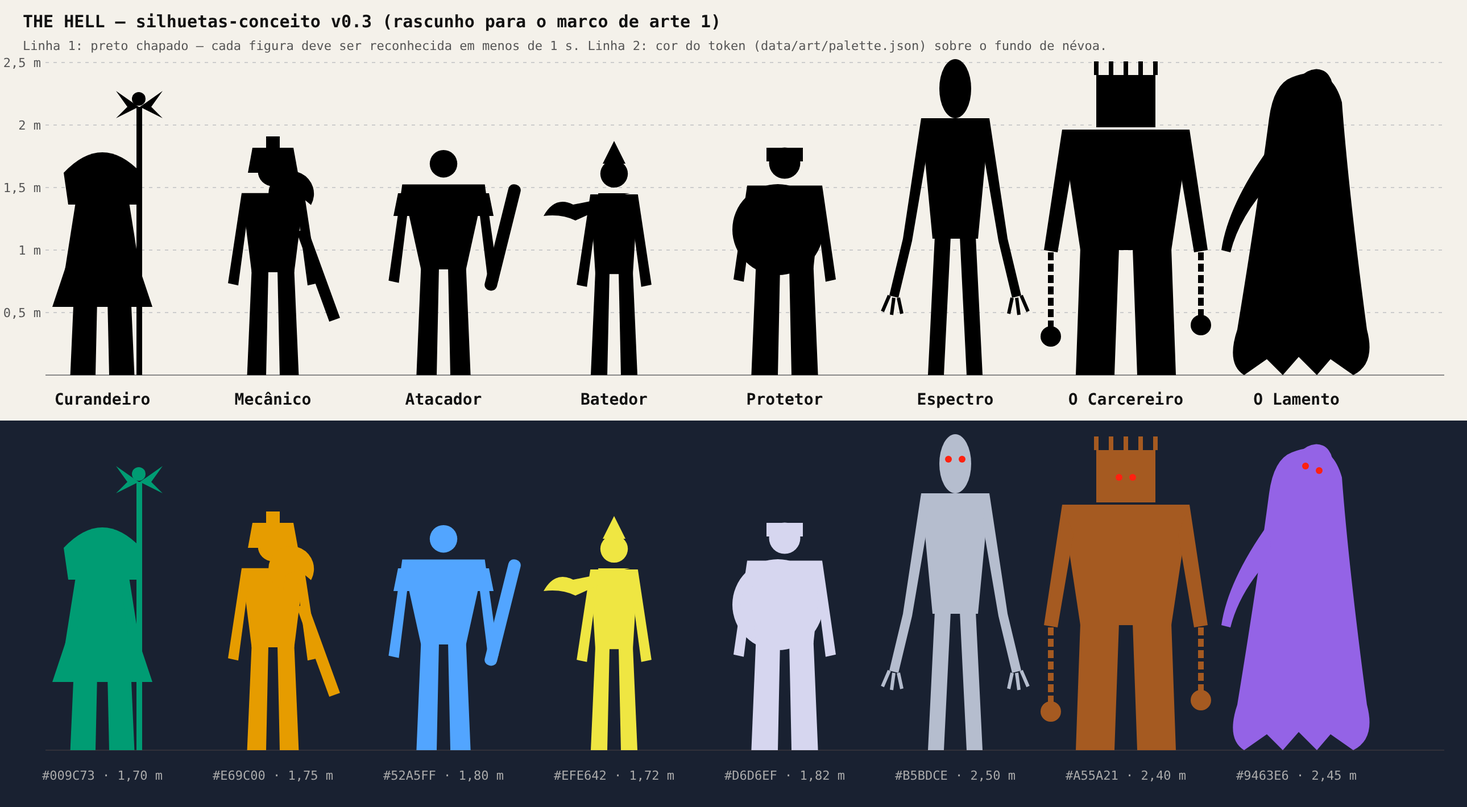
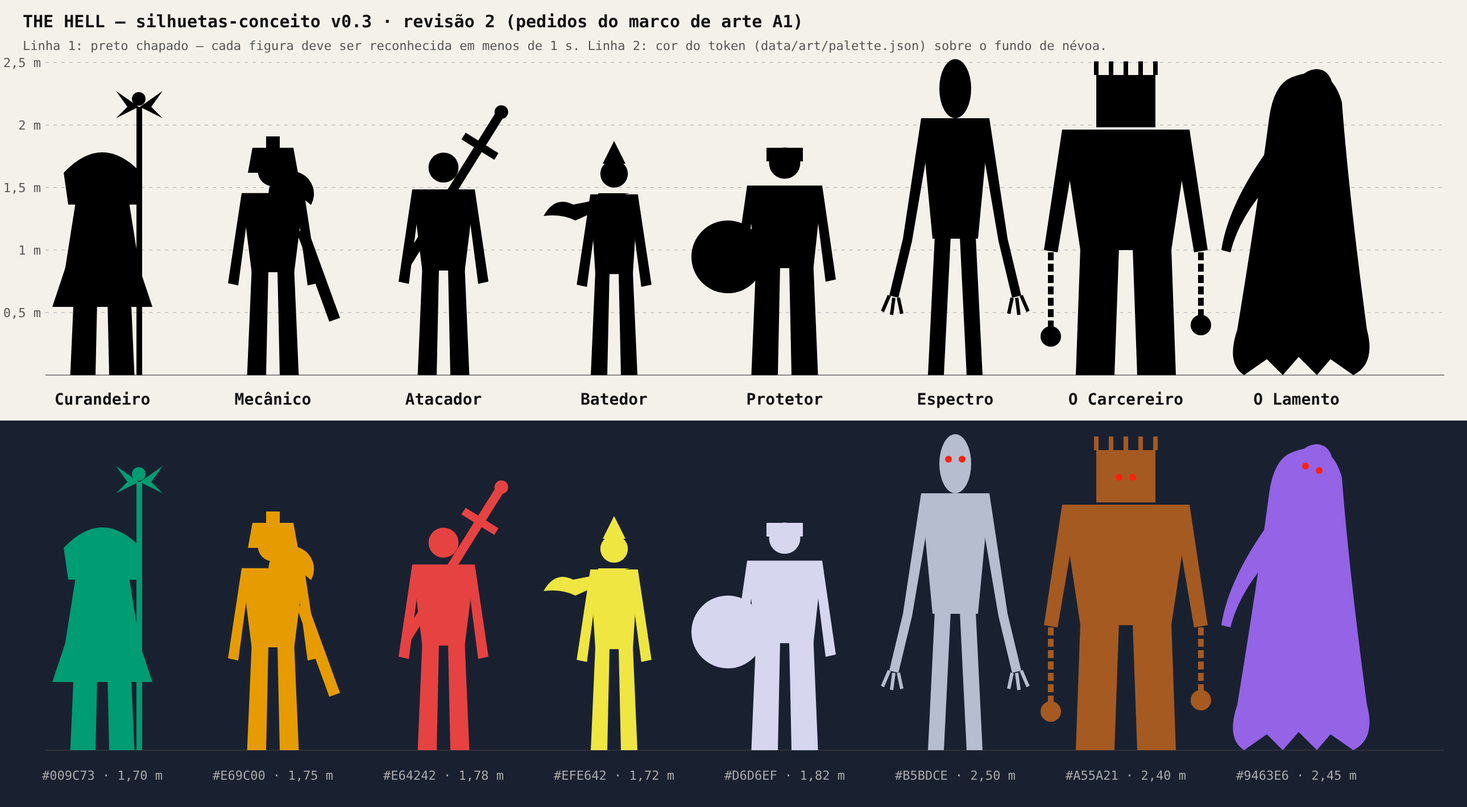
docs: aplica as decisões D-01 a D-12 e a revisão 1 do marco de arte A1
- Art Bible e silhuetas: Atacador com corpo do Mecânico, espada nas costas
  e vermelho #E64242 (passa nos testes de daltonismo e contraste); Protetor
  com escudo no braço; bônus magenta mantido
- GDD v0.3 rev. 2: basta 1 escapar (D-01), limite de 10 min (D-02),
  caçador a 4,3 m/s com tabela de dificuldade escalada (D-03), skins 8×
  mais caras com 1 moeda por ponto (D-04), Floresta e Parque como mapas
  2 e 3, com obstáculo dinâmico no navmesh (D-06)
- data/balance.yaml 0.3.1 com os novos valores
- Plano: decisões registradas; merge em main passa a ser feito pelos
  agentes após testes e CI verdes; deploy em produção segue com o Rodrigo

Claude-Session: https://claude.ai/code/session_01RHvzBmcfxqiuKHDvZU5cBB

diff --git a/docs/GDD-v0.3.md b/docs/GDD-v0.3.md
@@ -1,6 +1,6 @@
 # THE HELL — Game Design Document v0.3
 
-**Delta sobre o v0.2 · 08/11/2026**
+**Delta sobre o v0.2 · 08/11/2026 · revisão 2: decisões D-01 a D-12 aplicadas**
 
 O v0.3 fecha as seções 8 a 13 (IA, mapas, gráficos, áudio, UI e arquitetura) e resolve as contradições do v0.2. Ele não repete o v0.2: toda seção não citada aqui continua valendo como está em [`GDD-v0.2.md`](GDD-v0.2.md). Onde houver conflito, vale o v0.3.
 
@@ -14,22 +14,22 @@ Legenda (igual ao v0.2): **[Implementado]** · **[Especificado]** · **[Proposta
 
 | ID | Onde (v0.2) | Problema | Decisão no v0.3 | Quem confirma |
 | --- | --- | --- | --- | --- |
-| C-01 | §3.3 | Regra de vitória da equipe escrita duas vezes, a segunda frase interrompida ("…regra simplificada"). | Regra única em §3.3 revisto abaixo: a equipe vence se escapados ≥ ⌈n/2⌉ **ou** a vida do caçador chegar a 0; senão vence o caçador. Equivale às duas frases do v0.2 sem ambiguidade. | Rodrigo (D-01, fecha §19.3) |
-| C-02 | §2.5, §3.1, §3.3 | Não há condição que encerre a partida se ninguém chegar ao portão: o protótipo acaba quando o jogador morre, e o GDD pede eliminar todos. | Partida termina quando todos os sobreviventes estão em estado terminal, ou a vida do caçador chega a 0, ou o limite duro de tempo é atingido. Limite duro **[Proposta]** 10 min (`match.hard_time_limit`), acima da faixa de 5 a 9 min do §0. | Rodrigo (D-02) |
+| C-01 | §3.3 | Regra de vitória da equipe escrita duas vezes, a segunda frase interrompida ("…regra simplificada"). | **Decidido (D-01 b):** a equipe vence se **pelo menos 1** sobrevivente escapar **ou** a vida do caçador chegar a 0; senão vence o caçador (§3.3 revisto). Fecha a pendência §19.3. | Rodrigo e filho, 08/11/2026 |
+| C-02 | §2.5, §3.1, §3.3 | Não há condição que encerre a partida se ninguém chegar ao portão: o protótipo acaba quando o jogador morre, e o GDD pede eliminar todos. | Partida termina quando todos os sobreviventes estão em estado terminal, ou a vida do caçador chega a 0, ou o limite duro de tempo é atingido. **Decidido (D-02 a):** limite duro de 10 min (`match.hard_time_limit`). | Rodrigo e filho, 08/11/2026 |
 | C-03 | §3.5 × §7.3 | Vida do caçador escala por tamanho do time (50/65/80/90–100) e também por dificuldade (60/80/100/120), sem regra de combinação. As duas tabelas têm 80 como base (3 sobreviventes, Normal). | Vida = `hp` da dificuldade (§7.3) × fator do time. Fatores tirados do §3.5 dividindo por 80: 0,625 / 0,8125 / 1 / 1,125 / 1,25 (`hunter_hp_scale`). Exemplo: Difícil com 5 sobreviventes = 100 × 1,25 = 125. | Simulador (fase 1) |
 | C-04 | §13.2 × §15.2 × Apêndice A | `data/` em JSON (§13.2) ou em YAML (§15.2, Apêndice A). | YAML é a fonte editada; o build valida por schema e gera JSON para o cliente e o servidor. | — |
 | C-05 | §13.5 × stack decidida | Postgres, Redis, CDN Cloudflare, Sentry e Prometheus/Grafana estouram o teto de US$ 10/mês e a regra de hospedar só no Fly.io. | Substituição por equivalentes já em produção no Caçada Sombria: SQLite no volume do Fly, filas em memória, assets servidos pela própria máquina com cache imutável, erros e métricas em rotas próprias. Detalhe em §13.5 revisto. | Decisão já tomada |
 | C-06 | §2.3 × §3.4 × §8.1 | O protótipo detecta em 360° num raio de 11 m (confirmado no código, `prototype/the-hell.html` L162); o GDD especifica cone de 90° com linha de visão. | Vale o GDD (cone de 90°, `hunter.vision_fov_deg`). Como isso enfraquece o caçador em relação ao baseline, a paridade da fase 0 mede o protótipo com 360° e a fase 1 recalibra no simulador. | Simulador (fase 1) |
-| C-07 | §2.3 × §1 pilar 4 × §9.1 | O caçador persegue a 3,9 m/s e o sobrevivente **anda** a 4,0 m/s. Andando, o sobrevivente nunca é alcançado sem dash ou projétil; o "loop de 6 a 10 s de vantagem" do §9.1 deixa de ter sentido. | Sem mudança de valor no v0.3 (é o baseline testado). Registrado como risco de balanceamento: a fase 1 roda o cenário no simulador e no playtest interno. Candidata **[Proposta]**: perseguição 4,3 m/s em Normal. | Filho e Rodrigo (D-03), com dados |
+| C-07 | §2.3 × §1 pilar 4 × §9.1 | O caçador persegue a 3,9 m/s e o sobrevivente **anda** a 4,0 m/s. Andando, o sobrevivente nunca é alcançado sem dash ou projétil; o "loop de 6 a 10 s de vantagem" do §9.1 deixa de ter sentido. | **Decidido (D-03 b):** perseguição de 4,3 m/s em Normal. Para manter a ordem da tabela §7.3, as outras dificuldades sobem na mesma proporção (×4,3/3,9): Fácil 3,9, Difícil 4,6, Pesadelo 5,0. Na pressão final (×1,2), o caçador chega a 5,16 m/s, ainda abaixo da corrida do sobrevivente (5,4). A paridade da fase 0 continua medida com 3,9 (valor do protótipo). | Rodrigo e filho, 08/11/2026 |
 | C-08 | §2.3 × §3.4 | Falha em quebra-cabeça chama o caçador por 8 s (protótipo, de qualquer distância, L118) ou gera ruído de 18 m (§3.4). | Vale o §3.4: ruído de 18 m; o caçador só reage se estiver no raio. Mesmo tratamento da C-06 na calibração. | Simulador (fase 1) |
-| C-09 | §2.3 × §7.2 × Apêndice A | Baseline converte pontos em moedas 1:1; o Apêndice A já usa 0,3 (proposta do §7.2). | `data/balance.yaml` usa 0,3, aguardando aprovação (§19.4). O preço das skins sobe junto (300 a 1.500). | Rodrigo (D-04) |
+| C-09 | §2.3 × §7.2 × Apêndice A | Baseline converte pontos em moedas 1:1; o Apêndice A já usa 0,3 (proposta do §7.2). | **Decidido (D-04 b):** mantém 1 moeda por ponto e **aumenta o preço das skins**. As 7 skins atuais passam a custar 8× o preço do protótipo: Sombra 640, Abóbora 800, Neon Ciano 960, Carmesim 1.200, Ouro 1.600, Fantasma 2.000. Com 170 a 300 moedas por partida (20 + 30 na vitória + 150 a 250 pontos, §7.2), a skin mais barata sai em 2 a 4 partidas e a mais cara em 7 a 12; a média fica perto do ritmo do §14.2 (3 a 5). Fecha §19.4. | Rodrigo e filho, 08/11/2026 |
 | C-10 | §10.1 × §10.6 | Resolução interna 320×240 (4:3) ou 384×216 (16:9); meta de FPS "a 720p". | 16:9 em todos os presets. Resolução interna por preset (320×180, 384×216, 480×270), escalada por inteiro até a saída de 1280×720 em que o FPS é medido. | — |
 | C-11 | §13.3 × Apêndice B | Simulação a 60 Hz no cliente e 30 Hz no servidor quebra o determinismo da predição (passos diferentes dão resultados diferentes). | Passo da simulação fixo em 1/60 s nos dois lados. O servidor roda 2 passos por tick de 30 Hz (`net.sim_step_hz`, `net.server_tick_hz`). | — |
 | C-12 | §10.1 × three.js atual | O v0.2 conta com iluminação por vértice do `MeshLambertMaterial` (r128). Nas versões atuais do three.js o Lambert é calculado por fragmento. **LACUNA:** confirmar no changelog a versão exata da mudança. | Shader próprio de Gouraud (iluminação por vértice) dentro do material PS1 (§10 revisto). | Agente de render (fase 2) |
 | C-13 | §11 × navegadores | `.ogg/.opus` como formato único. Suporte a Opus no Safari não verificado (**LACUNA**). | MP3 como formato de entrega na v1.0, como no Caçada Sombria (50 arquivos MP3 em produção nos 4 navegadores). Opus volta como otimização se o suporte for confirmado. | — |
 | C-14 | §9.4 × capacidade de agentes | Mapas feitos no Blender com metadados no glTF exigem edição manual em ferramenta gráfica. | Layout de mapa em JSON (`data/maps/*.json`: paredes, spawns, geradores, loops, gaiolas, esconderijos), gerado e validado por script, como no Caçada Sombria (`tools/mapgen`). glTF fica para personagens e props. | — |
-| C-15 | §7.6 × experiência do Caçada Sombria | O §15.2 faz a CI falhar se o simulador sair das bandas da §7.6. No Caçada Sombria, bots deram vitória ao caçador em 84 a 100% das partidas e nenhuma alavanca testada mudou o resultado, porque a fuga dos bots é bem mais fraca que a de pessoas (`cacada-sombria-V2/docs/balanceamento-v07.md`). | O simulador vira **porta de regressão** (falha se a métrica piorar mais que a tolerância contra o build anterior) e só vira porta de banda depois que a calibração com pessoas da fase 5 mostrar que bots e humanos dão resultados próximos. | Rodrigo (D-05) |
-| C-17 | §0 × §17.1 | A v1.0 tem 3 caçadores (§0), mas a fase 4 só prevê o "caçador 2". O "Jogar de caçador" aparece como modo opcional (§14.4), embora o multiplayer 1 contra 5 exija um caçador humano. | Os caçadores 2 e 3 (O Carcereiro e O Lamento, §4.2) entram na fase 4. O caçador controlado por pessoa entra na fase 3, junto com o multiplayer; na v1.0, "Jogar de caçador" é o papel de caçador nas filas casual e ranked. | Rodrigo (D-09) |
+| C-15 | §7.6 × experiência do Caçada Sombria | O §15.2 faz a CI falhar se o simulador sair das bandas da §7.6. No Caçada Sombria, bots deram vitória ao caçador em 84 a 100% das partidas e nenhuma alavanca testada mudou o resultado, porque a fuga dos bots é bem mais fraca que a de pessoas (`cacada-sombria-V2/docs/balanceamento-v07.md`). | **Decidido (D-05 a).** O simulador vira **porta de regressão** (falha se a métrica piorar mais que a tolerância contra o build anterior) e só vira porta de banda depois que a calibração com pessoas da fase 5 mostrar que bots e humanos dão resultados próximos. | Rodrigo, 08/11/2026 |
+| C-17 | §0 × §17.1 | A v1.0 tem 3 caçadores (§0), mas a fase 4 só prevê o "caçador 2". O "Jogar de caçador" aparece como modo opcional (§14.4), embora o multiplayer 1 contra 5 exija um caçador humano. | Os caçadores 2 e 3 (O Carcereiro e O Lamento, §4.2) entram na fase 4. O caçador controlado por pessoa entra na fase 3, junto com o multiplayer; na v1.0, "Jogar de caçador" é o papel de caçador nas filas casual e ranked. **Decidido (D-09 a).** | Rodrigo e filho, 08/11/2026 |
 | C-16 | §7.6 | Não há métrica para o pilar 3 "objetivos opcionais de risco/recompensa" (geradores bônus). | **LACUNA** registrada; proposta de métrica de telemetria "partidas com ≥ 1 bônus concluído" na fase 5, sem banda até haver dados. | — |
 
 O código do protótipo foi conferido linha a linha contra a tabela 2.3 em [`prototipo-paridade.md`](prototipo-paridade.md): todos os valores batem, e 11 comportamentos fora do GDD ficam registrados lá. Correção factual: o protótipo tem 22 KB, não ~45 KB (§2.5).
@@ -56,8 +56,8 @@ Cada mecânica liga um pilar (§1) a um parâmetro de dados e a uma métrica que
 ## §3.3 revisto. Condições de fim [Especificado] Δ
 
 1. **Individual:** Escapou (vitória) ou Morto (derrota).
-2. **Equipe:** com n sobreviventes no início, a equipe vence se o número de escapados for ≥ ⌈n/2⌉ ou se a vida do caçador chegar a 0. Em qualquer outro caso, o caçador vence. Para n = 1 a 5, ⌈n/2⌉ = 1, 1, 2, 2, 3.
-3. **Fim da partida:** quando todos os sobreviventes estão em estado terminal, quando a vida do caçador chega a 0 ou no limite duro (`match.hard_time_limit`, [Proposta] 600 s). No limite, quem não escapou conta como não escapado e não perde pontos já ganhos.
+2. **Equipe:** a equipe vence se pelo menos 1 sobrevivente escapar ou se a vida do caçador chegar a 0 (D-01 b). Em qualquer outro caso, o caçador vence. O resultado individual continua separado: quem morreu perde, mesmo com o time vencendo.
+3. **Fim da partida:** quando todos os sobreviventes estão em estado terminal, quando a vida do caçador chega a 0 ou no limite duro (`match.hard_time_limit`, 600 s, D-02 a). No limite, quem não escapou conta como não escapado e não perde pontos já ganhos.
 4. Jogador morto vira espectador (sem mudança).
 
 **Aceite:** teste unitário cobre n = 1 a 5 com todas as combinações de escapados, mortos e caçador derrotado.
@@ -144,7 +144,10 @@ Feixes de luz nos geradores: cores e padrões de piscar na Art Bible §4 (a comb
 
 ### 9.2 Catálogo para a v1.0
 
-A v1.0 tem 3 mapas (§0): o Pátio (porte do protótipo) e mais dois do catálogo §9.2. Recomendação: **Hospital Abandonado** (loops curtos, testa o Mecânico) e **Floresta Nebulosa** (loops longos, contraste com o Hospital). O Parque de Diversões tem a mecânica mais cara (carrossel em ciclo) e fica para a temporada 1. Escolha final do filho (D-06).
+A v1.0 tem 3 mapas (§0): o Pátio (porte do protótipo) e mais dois do catálogo §9.2. **Decidido (D-06 c): Floresta Nebulosa e Parque de Diversões.** O Hospital Abandonado fica para a temporada 1.
+
+- **Floresta Nebulosa:** loops longos e baixa visibilidade; a névoa esconde quem não corre (§9.2 do v0.2). Parâmetro novo a definir na fase 4: alcance de visão do caçador sobre quem anda na névoa.
+- **Parque de Diversões:** setores temáticos e carrossel que bloqueia a passagem num ciclo de 30 s. Isso traz o único obstáculo móvel do jogo, com três consequências técnicas: o navmesh usa obstáculos dinâmicos (TileCache do recast-navigation-js) em vez de malha fixa; o validador de mapa testa os dois estados do carrossel (aberto e fechado), e todo gerador precisa continuar alcançável nos dois; a IA replaneja o caminho quando o carrossel muda de estado. Risco: é o mapa mais caro do catálogo, e entra no caminho crítico da fase 4.
 
 ### 9.3 Variação procedural leve [Especificado] Δ (era Proposta)
 
@@ -281,7 +284,7 @@ Estimativa de banda (**[Meta]** ≤ 20 KB/s): 6 entidades × ~11 bytes + eventos
 | CDN Cloudflare | Assets com hash no nome e cache imutável de 365 dias, servidos pela própria máquina | Regra "só Fly.io, sem Cloudflare"; padrão do `build.mjs` do Caçada Sombria |
 | Sentry | `POST /api/erro` grava erros do navegador e do servidor no SQLite, com limite por IP | Padrão do Caçada Sombria |
 | Prometheus/Grafana | `GET /api/metricas` agregado + métricas da plataforma do Fly. **LACUNA:** confirmar o que o painel do Fly oferece hoje e se tem custo | Teto de custo |
-| OAuth Google/Discord | Conta convidada com token aleatório guardado no navegador + código de recuperação; OAuth atrás de feature flag | O Rodrigo não faz configuração longa em várias contas; decisão D-07 |
+| OAuth Google/Discord | Conta convidada com token aleatório guardado no navegador + código de recuperação; OAuth atrás de feature flag | O Rodrigo não faz configuração longa em várias contas; decidido (D-07 a) |
 | Deploy canary | Dois apps no Fly (staging e produção); staging a cada merge, produção com aprovação | Máquina única com volume não comporta canary |
 
 Tabelas: contas, perfis, carteira como livro-razão só de inserção (moedas nunca vêm do cliente), inventário, rating Glicko-2 por papel, partidas, eventos de telemetria, erros, temporadas, denúncias. Backup: snapshots diários de volume do Fly (os primeiros 10 GB de snapshot não são cobrados, segundo a página de preços).
@@ -308,21 +311,21 @@ Sem mudança de regra. Números: o servidor descarta entrada que exceda 1,1× a 
 
 ---
 
-## Decisões pendentes
+## Decisões
 
-As perguntas estão em múltipla escolha no [plano de construção](plano-construcao.md#7-decisões-pendentes), com recomendação.
+Todas tomadas em 08/11/2026 pelo Rodrigo e pelo filho. Registro completo no [plano de construção](plano-construcao.md#7-decisões).
 
-| ID | Decisão | Bloqueia |
+| ID | Decisão | Escolha |
 | --- | --- | --- |
-| D-01 | Regra de vitória da equipe (C-01) | Fase 1 |
-| D-02 | Limite duro de partida (C-02) | Fase 1 |
-| D-03 | Velocidade do caçador contra a do sobrevivente (C-07) | Fase 1 (calibração) |
-| D-04 | Conversão de pontos em moedas e preços (C-09) | Fase 3 (loja) |
-| D-05 | Simulador como porta de regressão até a calibração (C-15) | Fase 0 (CI) |
-| D-06 | Mapas 2 e 3 (§9.2) | Fase 4 |
-| D-07 | Tipo de conta na v1.0 (§13.5) | Fase 3 |
-| D-08 | Moeda premium e passe pago (§14.2–14.3) | Fase 6 |
-| D-09 | Caçadores 2 e 3 na fase 4 e caçador humano na fase 3 (C-17) | Fase 3 |
+| D-01 | Vitória da equipe (C-01) | b) basta 1 escapar |
+| D-02 | Limite de tempo (C-02) | a) 10 min |
+| D-03 | Velocidade do caçador (C-07) | b) 4,3 m/s em Normal já |
+| D-04 | Moedas e preços (C-09) | b) 1 por ponto, skins mais caras |
+| D-05 | Simulador na CI (C-15) | a) porta de regressão |
+| D-06 | Mapas 2 e 3 (§9.2) | c) Floresta Nebulosa e Parque de Diversões |
+| D-07 | Contas (§13.5) | a) convidado com código de recuperação |
+| D-08 | Moeda premium e passe (§14.2–14.3) | a) fora da v1.0, atrás de flag |
+| D-09 | Caçadores (C-17) | a) caçador humano na fase 3; os 3 caçadores na v1.0 |
 
 ## Fontes
 

diff --git a/docs/art-bible.md b/docs/art-bible.md
@@ -1,6 +1,6 @@
 # THE HELL — Art Bible v0.3
 
-**Anexo do GDD v0.3 · 08/11/2026 · aguarda aprovação do marco de arte 1**
+**Anexo do GDD v0.3 · 08/11/2026 · revisão 2 (pedidos do marco A1) · aguarda a aprovação final do filho**
 
 THE HELL parece um jogo de PlayStation 1 achado num porão: pouca resolução, cor contada, névoa grossa e polígonos que tremem. O medo vem do que não se vê direito. Mas o que importa para jogar (quem é quem, onde está o gerador, de onde vem o perigo) tem que ser lido em menos de 1 segundo, mesmo com o granulado (GDD-v0.2 §1, pilar 5).
 
@@ -27,14 +27,14 @@ Paleta de 15 bits (5 bits por canal, como no PS1). Os tokens abaixo são a fonte
 | Grupo | Tokens | Regra |
 | --- | --- | --- |
 | Mundo | `world.fog` #192131, `world.wall` #313139, `world.ground` #313129 | Escuro e frio. Nenhum token de mundo pode competir com cor de personagem |
-| Classes | Curandeiro #009C73, Mecânico #E69C00, Atacador #52A5FF, Batedor #EFE642, Protetor #D6D6EF | Base na paleta de Okabe e Ito, feita para daltônicos, ajustada em 15 bits e testada (seção 5) |
+| Classes | Curandeiro #009C73, Mecânico #E69C00, Atacador #E64242, Batedor #EFE642, Protetor #D6D6EF | Base na paleta de Okabe e Ito, feita para daltônicos, ajustada em 15 bits e testada (seção 5) |
 | Geradores | pendente #D66300, em progresso #F7DE31, pronto #21C5A5, bônus #EF63DE | Cada estado tem também um padrão de piscar próprio (seção 4) |
 | Caçadores | Espectro #B5BDCE, O Carcereiro #A55A21, O Lamento #9463E6; olhos #FF2110 | Cada caçador tem cor dominante e cabeça diferentes (GDD-v0.2 §10.4) |
 | Interface | fundo #101019, painel #212131, texto #EFE6D6, texto secundário #9C9CA5, destaque #FFB531, perigo #FF4A29 | Texto ≥ 4,5:1 contra o fundo |
 
 A tabela completa, com os valores de 5 bits, está em [`art/palette-report.md`](art/palette-report.md).
 
-**O que mudou durante os testes.** A primeira versão da paleta falhou em 6 testes: Curandeiro, Atacador e Protetor sumiam contra a parede; O Lamento sumia na névoa; Mecânico × Protetor e os feixes "pronto" × "bônus" ficavam iguais para quem tem tritanopia. Correções: parede mais escura, Atacador em azul-céu, Protetor em prata, O Lamento mais claro e feixe bônus em magenta. A versão atual passa em todos.
+**O que mudou durante os testes.** (Revisão 2: o Atacador passou para vermelho, #E64242, a pedido do filho; o tom foi escolhido entre 90 vermelhos que passam em todos os testes, com a maior margem de contraste contra a parede.) A primeira versão da paleta falhou em 6 testes: Curandeiro, Atacador e Protetor sumiam contra a parede; O Lamento sumia na névoa; Mecânico × Protetor e os feixes "pronto" × "bônus" ficavam iguais para quem tem tritanopia. Correções: parede mais escura, Atacador em azul-céu, Protetor em prata, O Lamento mais claro e feixe bônus em magenta. A versão atual passa em todos.
 
 ## 3. Silhuetas
 
@@ -46,9 +46,9 @@ Cada personagem tem uma **forma-chave** que não muda com skin nenhuma. Skins tr
 | --- | --- | --- | --- |
 | Curandeiro | capuz arredondado e manto que abre embaixo | cajado com caduceu, mais alto que a cabeça | o cajado é a única linha vertical acima da cabeça entre os sobreviventes |
 | Mecânico | capacete com lanterna (quadrado no topo da cabeça) | chave inglesa grande na mão | o capacete quadrado se lê de longe |
-| Atacador | ombros muito largos, cabeça pequena (triângulo invertido) | bastão | o corpo em V é a forma do "lutador" |
+| Atacador | corpo igual ao do Mecânico, sem capacete | espada nas costas, com o cabo acima do ombro direito | pedido do filho (A1-1); a diagonal da espada e o cabo acima do ombro são únicos no elenco |
 | Batedor | corpo mais fino e cabeça com ponta | cachecol que voa para trás | o cachecol mostra a direção e a velocidade |
-| Protetor | corpo largo e reto | escudo redondo nas costas | o círculo grande atrás do tronco é único |
+| Protetor | corpo largo e reto, armadura prata | escudo redondo preso no braço esquerdo | pedido do filho (A1-1); o círculo grande ao lado do corpo é único |
 
 ### Caçadores (altura 2,40 a 2,50 m)
 
@@ -61,6 +61,10 @@ Cada personagem tem uma **forma-chave** que não muda com skin nenhuma. Skins tr
 Todos os caçadores têm dois olhos vermelhos emissivos (`hunter.olhos`). Eles são a primeira coisa visível na névoa.
 
 **Ponto de atenção.** O Protetor (prata) e o Espectro (cinza-azulado) são os dois personagens claros. A diferença de altura (1,82 m × 2,50 m), os olhos vermelhos e os braços longos separam os dois. Esse par é o primeiro do teste de silhueta com pessoas (seção 5.1).
+
+**Ponto de atenção 2: Atacador × Mecânico.** Pelo pedido do filho, os dois têm o mesmo corpo. O que separa os dois na silhueta é a cabeça (capacete quadrado no Mecânico, cabeça livre no Atacador) e o acessório (chave na mão × espada nas costas). Os dois entram juntos no teste de silhueta com pessoas do marco A2.
+
+**Ponto de atenção 3: Atacador vermelho × vermelho de perigo.** O vermelho do Atacador (#E64242) fica quase igual ao vermelho da seta de ameaça e dos olhos do caçador (diferença CIEDE2000 de 4,4 em visão normal, contra 12 exigido entre cores do mesmo grupo). Não é falha de teste, porque são grupos diferentes, mas o mesmo vermelho passa a significar duas coisas. Mitigação: o perigo nunca depende só da cor (a seta tem forma de seta e pulsa, os olhos do caçador brilham, cada ameaça tem som próprio), e o retrato do Atacador no HUD leva o ícone da espada. Se o playtest mostrar confusão, a saída é trocar o tom do Atacador para um vermelho mais escuro ou mais rosado, que passe nos mesmos testes.
 
 ## 4. Leitura de estados no jogo
 
@@ -90,7 +94,7 @@ O script `tools/art/palette-check.mjs` simula protanopia, deuteranopia e tritano
 
 | Grupo | Normal | Protanopia | Deuteranopia | Tritanopia | Par mais próximo | Resultado |
 | --- | --- | --- | --- | --- | --- | --- |
-| Classes | 23,6 | 16,2 | 12,3 | 12,7 | Mecânico × Batedor (deuteranopia) | passa |
+| Classes | 23,6 | 15,8 | 12,3 | 17,2 | Mecânico × Batedor (deuteranopia) | passa |
 | Geradores | 37,1 | 24,8 | 20,1 | 14,6 | pendente × bônus (tritanopia) | passa |
 | Caçadores | 26,4 | 27,5 | 26,7 | 24,8 | Espectro × O Lamento (tritanopia) | passa |
 
@@ -111,7 +115,7 @@ Rodar: `node tools/art/palette-check.mjs --md`. O script sai com erro se algum t
 
 ## 6. Mood board
 
-**A referência principal são os desenhos do filho.** **LACUNA:** ainda não estão no repositório. Pedido: fotos ou digitalizações em `docs/art/referencias/filho/`, uma pasta por personagem ou mapa.
+**Referência principal: a folha de silhuetas aprovada pelo filho.** Ele não tem desenhos próprios (A1-4), então as formas-chave da seção 3 e a folha de silhuetas são a fonte. Se ele desenhar algo depois, os desenhos entram em `docs/art/referencias/filho/` e passam a valer acima de tudo.
 
 Referências externas só de domínio público ou com licença aberta, com a licença registrada em `docs/art/referencias/LICENCAS.md`. Direções para a coleta na fase 2 (obras em domínio público por idade; links e licenças a conferir antes de entrar no repositório):
 
@@ -141,7 +145,7 @@ Esqueleto e animações-base podem vir de pacotes CC0 já usados no Caçada Somb
 
 - **Fonte:** pixel, com licença aberta (OFL). **LACUNA:** escolher a fonte e confirmar que tem todos os acentos de pt-BR e es (ã õ ç á é í ó ú â ê ô à ü ñ ¿ ¡). Teste: renderizar a frase de teste nos 3 tamanhos.
 - **Molduras:** 2 px, 9-slice, cor `ui.panel` com borda `ui.text_dim`.
-- **Ícones:** 16 e 32 px; um ícone por classe com a forma-chave da seção 3 (cajado, chave, bastão, cachecol, escudo).
+- **Ícones:** 16 e 32 px; um ícone por classe com a forma-chave da seção 3 (cajado, chave, espada, cachecol, escudo).
 - **Foco de teclado e gamepad:** contorno de 2 px em `ui.accent`, sempre visível.
 - **Contraste mínimo** 4,5:1 (seção 5.3).
 
@@ -151,15 +155,12 @@ Cada marco é aprovado num comentário na issue do marco no GitHub. Sem aprovaç
 
 | Marco | O que ele vê | Quando |
 | --- | --- | --- |
-| A1 | Esta Art Bible: paleta, silhuetas-conceito, regras | agora |
+| A1 | Esta Art Bible: paleta, silhuetas-conceito, regras. Revisão 1 respondida em 08/11/2026 (Atacador com espada e em vermelho, Protetor com escudo no braço, bônus magenta); revisão 2 aguarda aprovação | agora |
 | A2 | Primeiro sobrevivente e o Espectro modelados e animados, no shader PS1 | fase 2 |
 | A3 | Mapa 1 (Pátio) com iluminação, névoa e feixes | fase 2 |
 | A4 | Interface completa (menu, lobby, HUD, loja, resumo) | fase 3 |
 | A5 | Mapas 2 e 3, Batedor, Protetor e o segundo caçador | fase 4 |
 
-**Perguntas para o marco A1:**
+**Respostas da revisão 1 (08/11/2026):** formas mudadas (Atacador com corpo de Mecânico e espada nas costas; Protetor com escudo no braço), Atacador em vermelho, bônus em magenta, sem desenhos próprios.
 
-1. As formas-chave da seção 3 são as que você imaginou para cada classe e caçador? O que trocaria?
-2. As cores das classes combinam com a personalidade de cada uma?
-3. O feixe do gerador bônus em magenta funciona, ou prefere outra cor? (Ela precisa passar no teste da seção 5.)
-4. Tem desenhos seus que devem virar a referência principal?
+**Pergunta da revisão 2:** a nova folha de silhuetas (no topo deste documento) está do jeito que você queria?

diff --git a/docs/art/palette-report.md b/docs/art/palette-report.md
@@ -13,7 +13,7 @@
 | `world.ground` | 6, 6, 5 | #313129 | chão |
 | `class.curandeiro` | 0, 19, 14 | #009C73 | Curandeiro |
 | `class.mecanico` | 28, 19, 0 | #E69C00 | Mecânico |
-| `class.atacador` | 10, 20, 31 | #52A5FF | Atacador |
+| `class.atacador` | 28, 8, 8 | #E64242 | Atacador |
 | `class.batedor` | 29, 28, 8 | #EFE642 | Batedor (fase 4) |
 | `class.protetor` | 26, 26, 29 | #D6D6EF | Protetor (fase 4) |
 | `gen.pendente` | 26, 12, 0 | #D66300 | gerador não iniciado |
@@ -44,12 +44,12 @@
 | --- | --- | --- | --- |
 | `class.curandeiro` | `world.fog` | 4.61:1 | passa |
 | `class.mecanico` | `world.fog` | 7.00:1 | passa |
-| `class.atacador` | `world.fog` | 6.28:1 | passa |
+| `class.atacador` | `world.fog` | 4.01:1 | passa |
 | `class.batedor` | `world.fog` | 12.33:1 | passa |
 | `class.protetor` | `world.fog` | 11.30:1 | passa |
 | `class.curandeiro` | `world.wall` | 3.68:1 | passa |
 | `class.mecanico` | `world.wall` | 5.59:1 | passa |
-| `class.atacador` | `world.wall` | 5.02:1 | passa |
+| `class.atacador` | `world.wall` | 3.20:1 | passa |
 | `class.batedor` | `world.wall` | 9.85:1 | passa |
 | `class.protetor` | `world.wall` | 9.03:1 | passa |
 | `gen.pendente` | `world.fog` | 4.33:1 | passa |
@@ -69,7 +69,7 @@ Menor diferença entre dois membros do grupo, em visão normal e sob cada simula
 
 | Grupo | Normal | Protanopia | Deuteranopia | Tritanopia | Par mais próximo (pior caso) | Resultado |
 | --- | --- | --- | --- | --- | --- | --- |
-| classes | 23.6 | 16.2 | 12.3 | 12.7 | mecanico × batedor (deuteranopia) | passa |
+| classes | 23.6 | 15.8 | 12.3 | 17.2 | mecanico × batedor (deuteranopia) | passa |
 | geradores | 37.1 | 24.8 | 20.1 | 14.6 | pendente × bonus (tritanopia) | passa |
 | cacadores | 26.4 | 27.5 | 26.7 | 24.8 | espectro × lamento (tritanopia) | passa |
 

diff --git a/README.md b/README.md
@@ -7,10 +7,10 @@ Jogo assimétrico de fuga e perseguição para o navegador: 1 caçador contra 1 
 | Documento | O que é | Estado |
 | --- | --- | --- |
 | [`docs/GDD-v0.2.md`](docs/GDD-v0.2.md) | Game Design Document original (07/11/2026), fonte canônica | congelado |
-| [`docs/GDD-v0.3.md`](docs/GDD-v0.3.md) | Delta sobre o v0.2: IA, mapas, gráficos, áudio, UI, arquitetura e contradições resolvidas | aguarda aprovação |
-| [`docs/art-bible.md`](docs/art-bible.md) | Direção de arte: paleta, silhuetas, testes de legibilidade, marcos de arte | marco A1, aguarda o filho |
+| [`docs/GDD-v0.3.md`](docs/GDD-v0.3.md) | Delta sobre o v0.2: IA, mapas, gráficos, áudio, UI, arquitetura, contradições e decisões | aprovado (revisão 2) |
+| [`docs/art-bible.md`](docs/art-bible.md) | Direção de arte: paleta, silhuetas, testes de legibilidade, marcos de arte | marco A1, revisão 2 aguarda o filho |
 | [`docs/prototipo-paridade.md`](docs/prototipo-paridade.md) | Protótipo × GDD: paridade linha a linha e comportamentos fora do GDD | referência da fase 0 |
-| [`docs/plano-construcao.md`](docs/plano-construcao.md) | Fases, WBS, caminho crítico, orçamento, portões e decisões pendentes | aguarda aprovação do Rodrigo |
+| [`docs/plano-construcao.md`](docs/plano-construcao.md) | Fases, WBS, caminho crítico, orçamento, portões e decisões tomadas | aprovado |
 
 ## Dados e ferramentas
 
